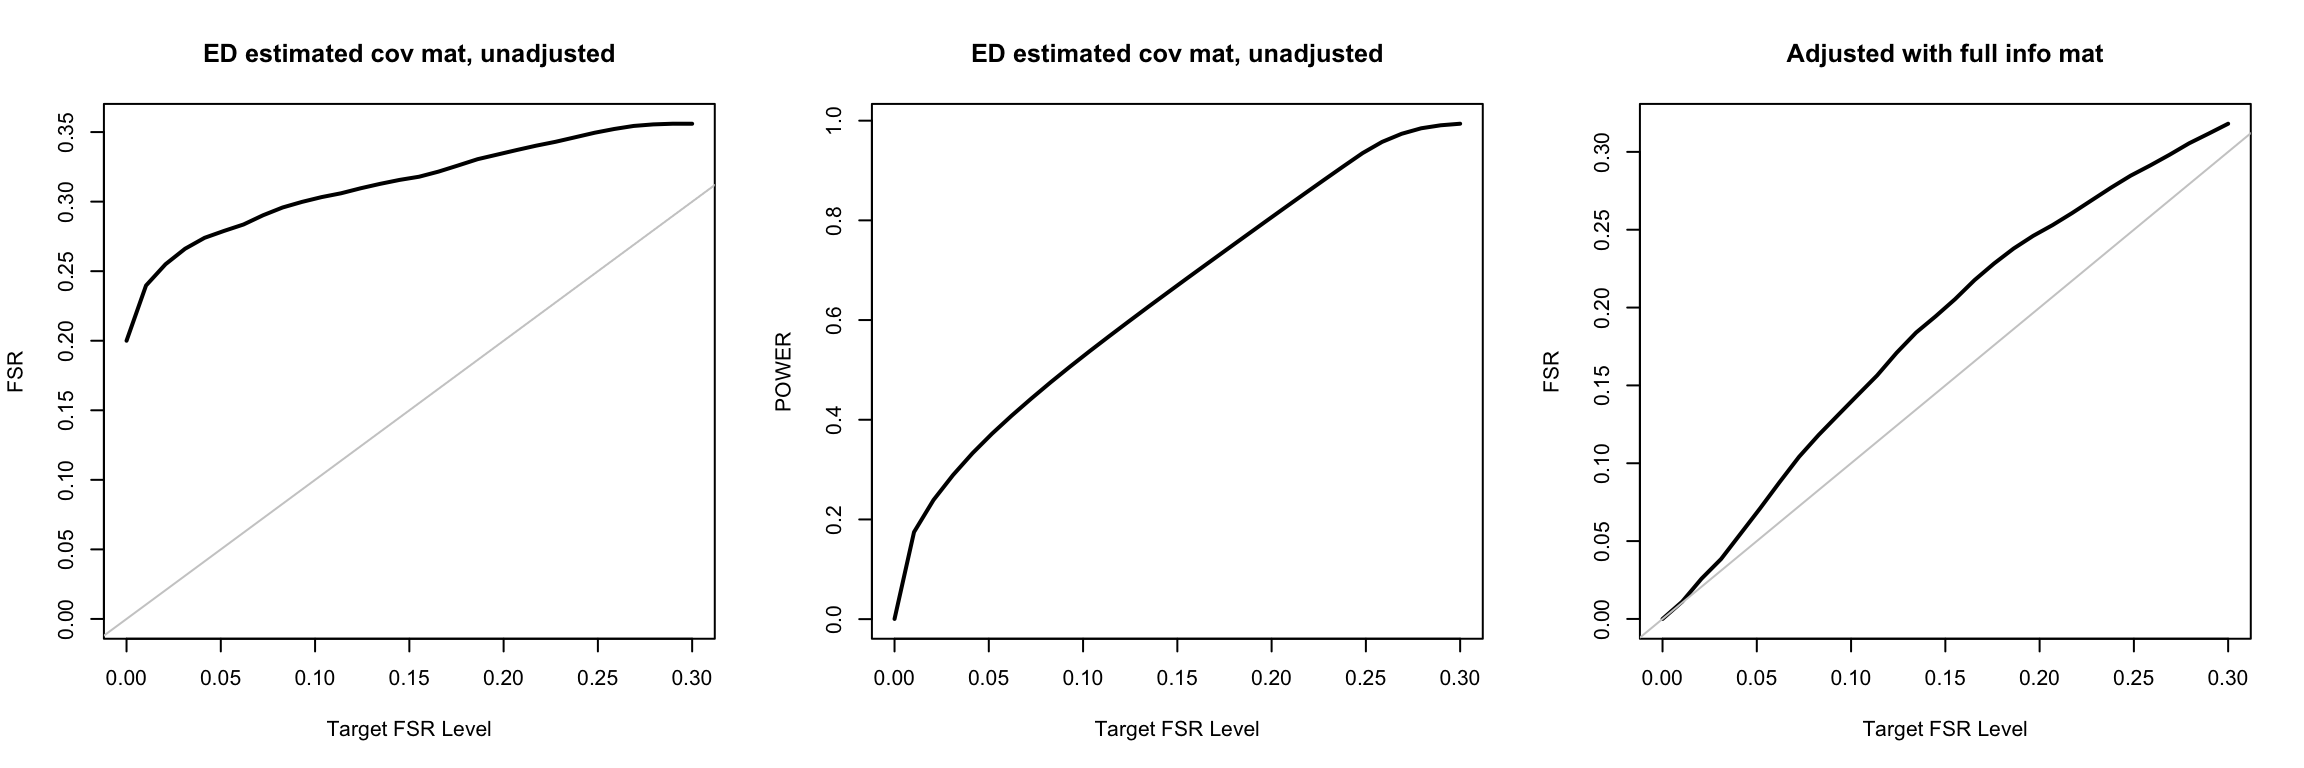
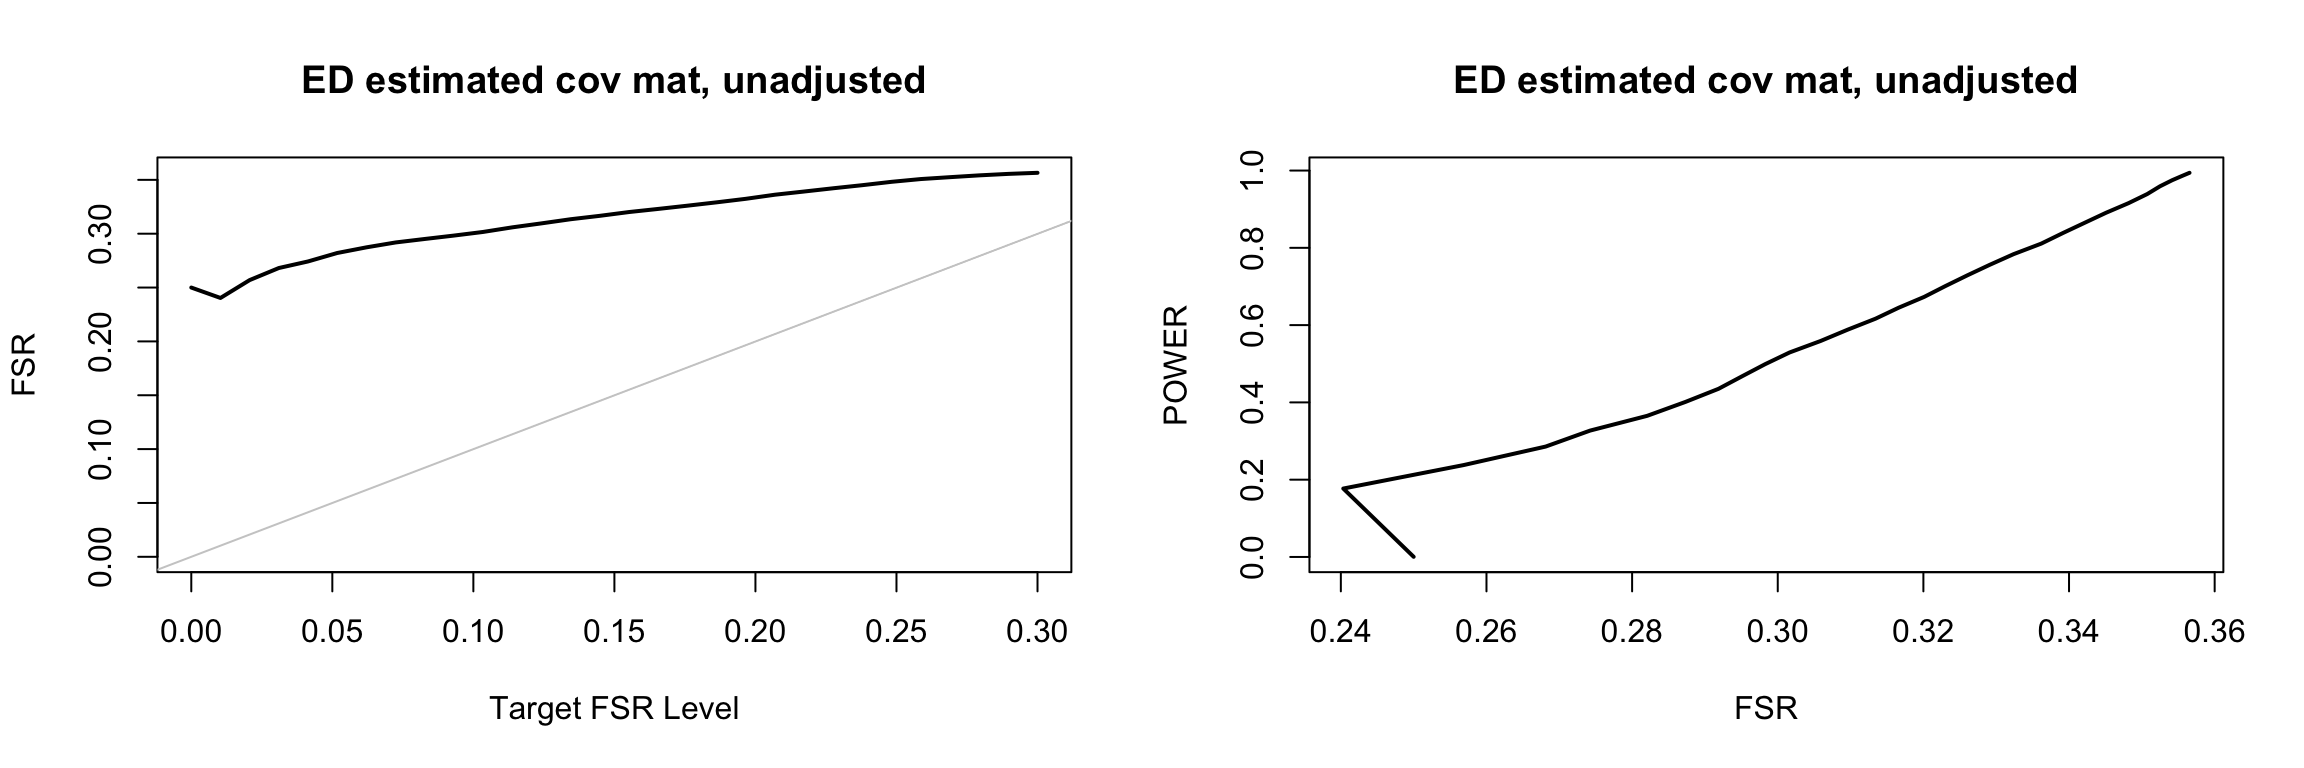
Build site.

diff --git a/docs/check_mash_fsr_info_no_point_mass.html b/docs/check_mash_fsr_info_no_point_mass.html
@@ -515,16 +515,16 @@ This reproducible <a href="http://rmarkdown.rstudio.com">R Markdown</a> analysis
 <div class="panel panel-default">
 <div class="panel-heading">
 <p class="panel-title">
-<a data-toggle="collapse" data-parent="#workflowr-checks" href="#strongRepositoryversionstrongahrefhttpsgithubcomDongyueXiemaskedmashtree56a6fa7fb5cd39193dc3069f5d7734b4299a5a3etargetblank56a6fa7a"> <span class="glyphicon glyphicon-ok text-success" aria-hidden="true"></span> <strong>Repository version:</strong> <a href="https://github.com/DongyueXie/maskedmash/tree/56a6fa7fb5cd39193dc3069f5d7734b4299a5a3e" target="_blank">56a6fa7</a> </a>
+<a data-toggle="collapse" data-parent="#workflowr-checks" href="#strongRepositoryversionstrongahrefhttpsgithubcomDongyueXiemaskedmashtree2094072c04a371f9d17e129bee7b850b815ff250targetblank2094072a"> <span class="glyphicon glyphicon-ok text-success" aria-hidden="true"></span> <strong>Repository version:</strong> <a href="https://github.com/DongyueXie/maskedmash/tree/2094072c04a371f9d17e129bee7b850b815ff250" target="_blank">2094072</a> </a>
 </p>
 </div>
[2 lines of base64/hex data omitted]
 <div class="panel-body">
 <p>
 Great! You are using Git for version control. Tracking code development and connecting the code version to the results is critical for reproducibility.
 </p>
 <p>
-The results in this page were generated with repository version <a href="https://github.com/DongyueXie/maskedmash/tree/56a6fa7fb5cd39193dc3069f5d7734b4299a5a3e" target="_blank">56a6fa7</a>. See the <em>Past versions</em> tab to see a history of the changes made to the R Markdown and HTML files.
+The results in this page were generated with repository version <a href="https://github.com/DongyueXie/maskedmash/tree/2094072c04a371f9d17e129bee7b850b815ff250" target="_blank">2094072</a>. See the <em>Past versions</em> tab to see a history of the changes made to the R Markdown and HTML files.
 </p>
 <p>
 Note that you need to be careful to ensure that all relevant files for the analysis have been committed to Git prior to generating the results (you can use <code>wflow_publish</code> or <code>wflow_git_commit</code>). workflowr only checks the R Markdown file, but you know if there are other scripts or data files that it depends on. Below is the status of the Git repository when the results were generated:
@@ -544,7 +544,6 @@ Ignored files:
 Untracked files:
     Untracked:  ExDeconDemo_c.log
     Untracked:  ExDeconDemo_loglike.log
-    Untracked:  analysis/lfsr_pointmass.Rmd
     Untracked:  analysis/mashdiagnostics.Rmd
     Untracked:  code/maskedmashr/info_mat.R
     Untracked:  output/maskedmashFDR/
@@ -601,6 +600,40 @@ Message
 Rmd
 </td>
 <td>
+<a href="https://github.com/DongyueXie/maskedmash/blob/2094072c04a371f9d17e129bee7b850b815ff250/analysis/check_mash_fsr_info_no_point_mass.Rmd" target="_blank">2094072</a>
+</td>
+<td>
+Dongyue Xie
+</td>
+<td>
+2021-04-13
+</td>
+<td>
+wflow_publish(“analysis/check_mash_fsr_info_no_point_mass.Rmd”)
+</td>
+</tr>
+<tr>
+<td>
+html
+</td>
+<td>
+<a href="https://rawcdn.githack.com/DongyueXie/maskedmash/2f176703a1c993926d71edd9c9b2a9de50011e53/docs/check_mash_fsr_info_no_point_mass.html" target="_blank">2f17670</a>
+</td>
+<td>
+Dongyue Xie
+</td>
+<td>
+2021-04-13
+</td>
+<td>
+Build site.
+</td>
+</tr>
+<tr>
+<td>
+Rmd
+</td>
+<td>
 <a href="https://github.com/DongyueXie/maskedmash/blob/56a6fa7fb5cd39193dc3069f5d7734b4299a5a3e/analysis/check_mash_fsr_info_no_point_mass.Rmd" target="_blank">56a6fa7</a>
 </td>
 <td>
@@ -650,15 +683,52 @@ u</code></pre>
 [4,] 0.000 0.000 0.000 0.001 0.000
 [5,] 0.000 0.000 0.000 0.000 0.001</code></pre>
 <pre class="r"><code>Ulist = list(U3 = u)</code></pre>
-<pre class="r"><code>par(mfrow=c(1,3))
+<pre class="r"><code>par(mfrow=c(1,2))
 
 out.ed0 = simu_mash_lfsr(Ulist,pi = rep(1/length(Ulist),length(Ulist)),
                 N = n*length(Ulist),adjust = NULL,
                 nreps=20,mc.cores = 4,use.U.true = FALSE,seed=seed,npc=2)
 
-plot.out(out.ed0,titles = &quot;ED estimated cov mat, unadjusted&quot;)
-
-  out = simu_mash_lfsr_info(Ulist,
+plot.out(out.ed0,titles = &quot;ED estimated cov mat, unadjusted&quot;)</code></pre>
+<p><img src="figure/check_mash_fsr_info_no_point_mass.Rmd/unnamed-chunk-4-1.png" width="1152" style="display: block; margin: auto;" /></p>
+<p>
+<button type="button" class="btn btn-default btn-xs btn-workflowr btn-workflowr-fig" data-toggle="collapse" data-target="#fig-unnamed-chunk-4-1">
+Past versions of unnamed-chunk-4-1.png
+</button>
+</p>
+<div id="fig-unnamed-chunk-4-1" class="collapse">
+<div class="table-responsive">
+<table class="table table-condensed table-hover">
+<thead>
+<tr>
+<th>
+Version
+</th>
+<th>
+Author
+</th>
+<th>
+Date
+</th>
+</tr>
+</thead>
+<tbody>
+<tr>
+<td>
+<a href="https://github.com/DongyueXie/maskedmash/blob/2f176703a1c993926d71edd9c9b2a9de50011e53/docs/figure/check_mash_fsr_info_no_point_mass.Rmd/unnamed-chunk-4-1.png" target="_blank">2f17670</a>
+</td>
+<td>
+Dongyue Xie
+</td>
+<td>
+2021-04-13
+</td>
+</tr>
+</tbody>
+</table>
+</div>
+</div>
+<pre class="r"><code>  out = simu_mash_lfsr_info(Ulist,
                             pi = rep(1/length(Ulist),length(Ulist)),
                             N = n*length(Ulist),
                             npc=2,
@@ -668,7 +738,44 @@ plot.out(out.ed0,titles = &quot;ED estimated cov mat, unadjusted&quot;)
                             seed=seed)
 
   plot.out(out,titles = paste(&quot;Adjusted with full info mat&quot;))</code></pre>
-<p><img src="figure/check_mash_fsr_info_no_point_mass.Rmd/unnamed-chunk-4-1.png" width="1152" style="display: block; margin: auto;" /></p>
+<p><img src="figure/check_mash_fsr_info_no_point_mass.Rmd/unnamed-chunk-4-2.png" width="1152" style="display: block; margin: auto;" /></p>
+<p>
+<button type="button" class="btn btn-default btn-xs btn-workflowr btn-workflowr-fig" data-toggle="collapse" data-target="#fig-unnamed-chunk-4-2">
+Past versions of unnamed-chunk-4-2.png
+</button>
+</p>
+<div id="fig-unnamed-chunk-4-2" class="collapse">
+<div class="table-responsive">
+<table class="table table-condensed table-hover">
+<thead>
+<tr>
+<th>
+Version
+</th>
+<th>
+Author
+</th>
+<th>
+Date
+</th>
+</tr>
+</thead>
+<tbody>
+<tr>
+<td>
+<a href="https://github.com/DongyueXie/maskedmash/blob/2f176703a1c993926d71edd9c9b2a9de50011e53/docs/figure/check_mash_fsr_info_no_point_mass.Rmd/unnamed-chunk-4-2.png" target="_blank">2f17670</a>
+</td>
+<td>
+Dongyue Xie
+</td>
+<td>
+2021-04-13
+</td>
+</tr>
+</tbody>
+</table>
+</div>
+</div>
 <pre class="r"><code>  out = simu_mash_lfsr_info(Ulist,
                             pi = rep(1/length(Ulist),length(Ulist)),
                             N = n*length(Ulist),
@@ -678,7 +785,7 @@ plot.out(out.ed0,titles = &quot;ED estimated cov mat, unadjusted&quot;)
                             mc.cores = 4,
                             seed=seed)
   plot.out(out,titles = paste(&quot;Adjusted with diag info mat&quot;))</code></pre>
-<p><img src="figure/check_mash_fsr_info_no_point_mass.Rmd/unnamed-chunk-4-2.png" width="1152" style="display: block; margin: auto;" /></p>
+<p><img src="figure/check_mash_fsr_info_no_point_mass.Rmd/unnamed-chunk-4-3.png" width="1152" style="display: block; margin: auto;" /></p>
 <br>
 <p>
 <button type="button" class="btn btn-default btn-workflowr btn-workflowr-sessioninfo" data-toggle="collapse" data-target="#workflowr-sessioninfo" style="display: block;">
